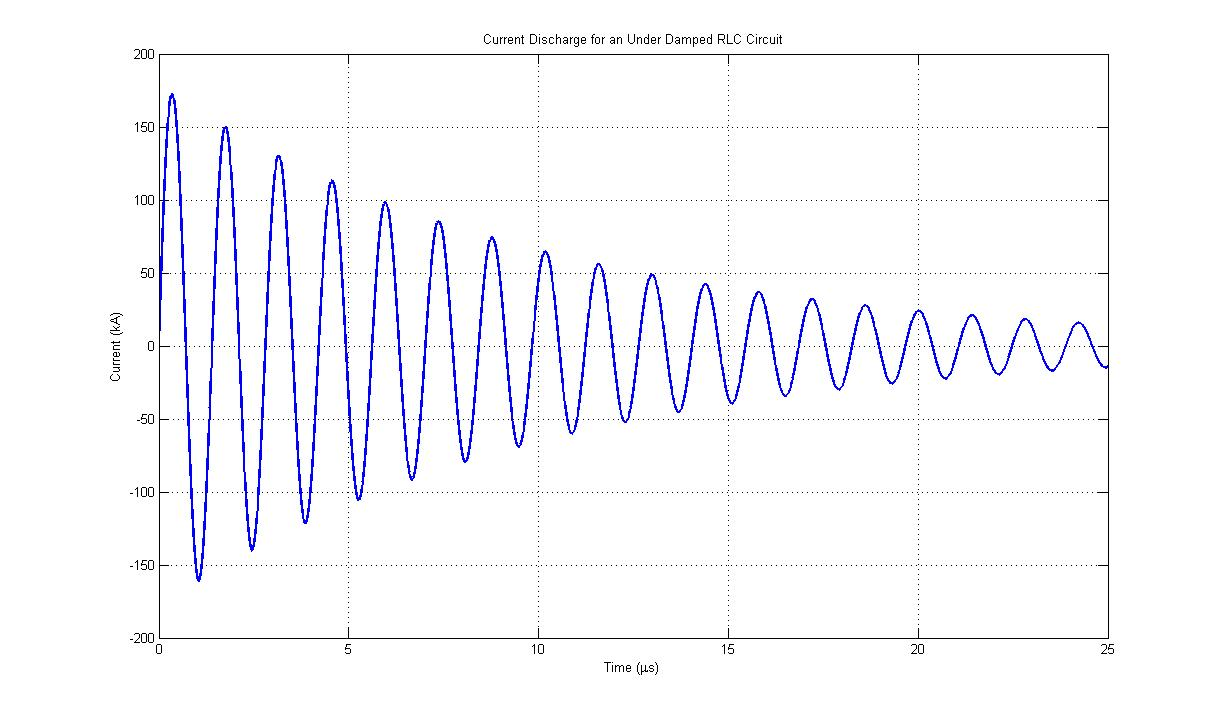
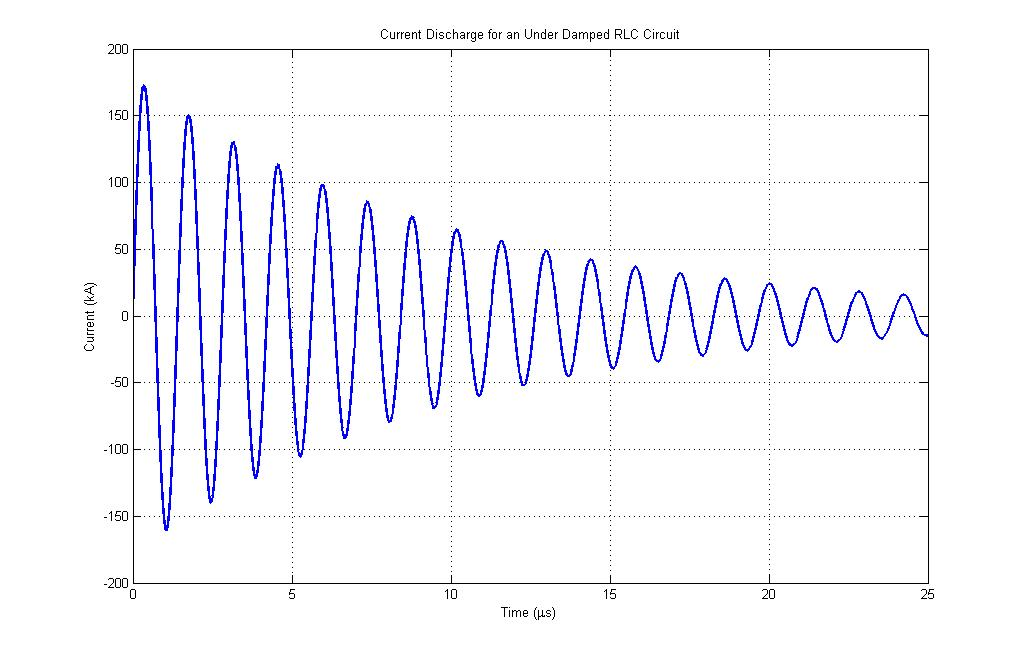
update
update

diff --git a/Coursework 3/Question 3/Q3.m b/Coursework 3/Question 3/Q3.m
@@ -1,9 +1,10 @@
-%% Fast Tansient Sensors - Q3 - Coursework 3
+%% Fast Tansient Sensors - Q2 - Coursework 3
 % B126949 - Tom Young
 
 %% Pre - Cursor
 clear all
 clc
+syms x
 
 %% Constants
 %Global constants
@@ -15,7 +16,7 @@ Rb = 50;
 Lb = 25*10^-9;
 Vo = 60*10^3;
 %Rod Diameter
-Rd = 5*10^-3;
+Rd = 10*10^-3;
 
 %% Current Discharge
 t = 0:1*10^-10:25*10^-6;
@@ -24,30 +25,41 @@ figure('name','RLC Current Discharge')
 plot(t.*10^6,Current_Discharge.*10^-3,'Linewidth',2)
 grid on
 xlabel('Time (\mus)')
-ylabel('Voltage (kV)')
+ylabel('Current (kA)')
 title(['Current Discharge for an ', damping_string ,' RLC Circuit'])
 figure('name','RLC Differential Current Discharge')
 plot(t.*10^6,Diff_Current_Discharge.*10^-9,'Linewidth',2)
 grid on
 xlabel('Time (\mus)')
-ylabel('Voltage/Time (GV/s)')
+ylabel('Current/Time (GA/s)')
 title(['Differential Current Discharge for an ', damping_string ,' RLC Circuit'])
 
 %% Probe Design
 %Coil Parameters
-major_radius = 5*10^-3;
-minor_radius = 0.5*10^-3;
-wire_diameter = 2*minor_radius;
-N = 5; %5-10 turns
+major_radius = 20*10^-3;
+minor_radius = 3*10^-3;
+wire_radius = 1*10^-3;
+wire_diameter = 2*wire_radius;
+N = 30; %10's turns
 copper_rho = 1.7*10^-8;
 %Current Viewing Resistor
 Rcvr = 50; %Matches cable impedence
-%Resistance
-coil_length_est = pi*major_radius*2*N;
-coil_area = pi*minor_radius^2;
-RCoil_resistance = copper_rho.*(coil_length_est./coil_area);
+%Pitch
+p = (2.*pi.*major_radius)./N;
 %Inductance
-RCoil_inductance = indhelical(N,major_radius,coil_length_est);
+Induct_pre = u0.*minor_radius.*N;
+Induct_sum0 = 0.0007*((log((2*pi*major_radius)/p))^0);
+Induct_sum1 = 0.1773*((log((2*pi*major_radius)/p))^1);
+Induct_sum2 = -0.0322*((log((2*pi*major_radius)/p))^2);
+Induct_sum3 = 0.00197*((log((2*pi*major_radius)/p))^3);
+Induct_sum = Induct_sum0 + Induct_sum1 + Induct_sum2 + Induct_sum3;
+Induct_pre2 = (((pi*minor_radius)/p)+(log((2*p)/(wire_diameter)))-(5/4)-Induct_sum);
+RCoil_inductance = Induct_pre*Induct_pre2;
+%Resistance
+freq = 1/(2*sqrt(Lb*Cb));
+RCoil1 = N/(pi*wire_diameter);
+RCoil2 = sqrt((copper_rho*pi*freq*u0)*((p^2)+((2*pi*minor_radius)^2)));
+RCoil_resistance = RCoil1*RCoil2;
 
 %% Magnetic flux
 %Magnetic flux time rate-of-change
@@ -71,8 +83,9 @@ title(['Magnetic flux for an ', damping_string ,' RLC Circuit'])
 %% Rogowski Coil Current
 Rrt = RCoil_resistance + Rcvr;
 Lr = RCoil_inductance;
-rogowski_current = @(x,Rrt,Lr,Cb,Lb,Rb,Vo) exp((Rrt./Lr).*x).*(k.*(Vo./((1./sqrt(Lb.*Cb)).*Lb).*(((1./sqrt(Lb.*Cb)).*exp((-1.*(Rb./(2.*Lb)).*x)).*cos((1./sqrt(Lb.*Cb)).*x))+((-1.*(Rb./(2.*Lb))).*exp((-1.*(Rb./(2.*Lb)).*x)).*sin((1./sqrt(Lb.*Cb)).*x)))));
-RIntegral = integral(@(x)rogowski_current(x,Rrt,Lr,Cb,Lb,Rb,Vo),0,10*10^-9);
+omega = sqrt((1./(Lb.*Cb))-((Rb./(2.*Lb))^2));
+rogowski_current = @(x) exp((Rb./(2.*Lb)).*x).*(k.*(Vo./(omega.*Lb).*((omega.*exp(-1.*(Rb./(2.*Lb)).*x).*cos(omega.*x))+((-1.*(Rb./(2.*Lb))).*exp(-1.*(Rb./(2.*Lb)).*x).*sin(omega.*x)))));
+RIntegral = integral(@(x)rogowski_current(x),0,70*10^-11);
 t2 = 0:1*10^-10:10*10^-9;
 Rogowski_Current = (exp(-(Rrt./Lr).*t2)./Lr).*RIntegral;
 dRogowski_Current_prefix = (exp(-(Rrt./Lr).*t2)./Lr).*exp((Rrt./Lr).*t2).*dflux(1:length(t2));

diff --git a/Coursework 3/Question 2/Q2.m b/Coursework 3/Question 2/Q2.m
@@ -93,10 +93,24 @@ dRogowski_Current = dRogowski_Current_prefix + (RIntegral.*((-Rrt./Lr).*exp(-(Rr
 figure('name','Rogowski Coil Voltage')
 hold on
 plot(t2.*10^9,Rogowski_Current.*Rrt,'b','Linewidth',2)
-% % plot(t2.*10^9,dRogowski_Current.*Lr,'r','Linewidth',2)
+plot(t2.*10^9,dRogowski_Current.*Lr,'r','Linewidth',2)
 grid on
 xlabel('Time (ns)')
 ylabel('V_{R} (V)')
 title('Rogowski Coil Voltage')
 legend('R_{R}I_{R}','L_{R}dI_{R}/dt')
 hold off
+
+%% Oscilloscope Voltage
+Ri = 5;
+Ci = 20*10^-9;
+tau = Ri.*Ci;
+extau = 100*10^-9;
+prefix = 1./tau;
+% Vout = prefix.*integral(@(x)Rogowski_Current.*Rrt,0,100*10^-9);
+Vosc = 0;
+figure('name','Rogowski Coil Voltage')
+hold on
+plot(t2.*10^9,Vosc,'b','Linewidth',2)
+grid on
+% Integrator Design

diff --git a/Librairies/Inductance/indhvcoax.m b/Librairies/Inductance/indhvcoax.m
@@ -1,0 +1,13 @@
+function [ indhvcoax ] = indhvcoax( outer_radius, bar_radius, inner_radius, wire_radius, number_of_bars )
+%UNTITLED Summary of this function goes here
+%   Detailed explanation goes here
+    u0 = 4*pi*10^-7;  % H/m
+    LHVPre = u0./(2*pi);
+    LHV1 = log(outer_radius./wire_radius);
+    LHV2 = (inner_radius^4)./(((wire_radius^2)-(inner_radius^2))^2);
+    LHV3 = log(wire_radius./inner_radius);
+    LHV4 = 0.5*(((3*inner_radius^2) - (wire_radius^2))./((wire_radius^2)-(inner_radius^2)));
+    LHV5 = (1./(4*number_of_bars))+(1./number_of_bars).*log(outer_radius./(number_of_bars.*bar_radius));
+    indhvcoax = LHVPre.*(LHV1+(LHV2.*LHV3)-LHV4+LHV5);
+end
+

diff --git a/Librairies/Inductance/LHVCoax.m b/Librairies/Inductance/LHVCoax.m
@@ -1,0 +1,13 @@
+function [ LHVCoax ] = LHVCoax( outer_radius, bar_radius, inner_radius, wire_radius, number_of_bars )
+%UNTITLED Summary of this function goes here
+%   Detailed explanation goes here
+    u0 = 4*pi*10^-7;  % H/m
+    LHVPre = u0./(2*pi);
+    LHV1 = log(outer_radius./wire_radius);
+    LHV2 = (inner_radius^4)./(((wire_radius^2)-(inner_radius^2))^2);
+    LHV3 = log(wire_radius./inner_radius);
+    LHV4 = 0.5*(((3*inner_radius^2) - (wire_radius^2))./((wire_radius^2)-(inner_radius^2)));
+    LHV5 = (1./(4*number_of_bars))+(1./number_of_bars).*log(outer_radius./(number_of_bars.*bar_radius));
+    LHVCoax = LHVPre.*(LHV1+(LHV2.*LHV3)-LHV4+LHV5);
+end
+

diff --git a/Librairies/Inductance/indhelical.m b/Librairies/Inductance/indhelical.m
@@ -1,11 +1,5 @@
 function [ indhelical ] = indhelical( coil_turns, coil_radius, coil_length )
-%indhelical Inductance of a transmission line made from two parallel wires.
-%
-%   Inductance of a transmission line made from two parallel lines with
-%   radius a, seperation d carrying he same current in oppoite directions.
-%   The output of this function is in two parts, one is the total self
-%   inductance and the second includes the inner self inductance of the
-%   toroidal coil.
+%indhelical.
 
 %% Constants
     u_0 = 4*pi*10^-7;
